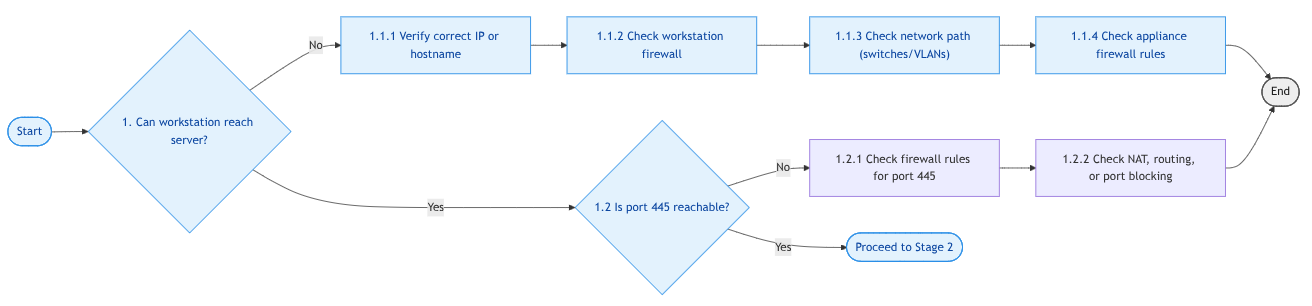
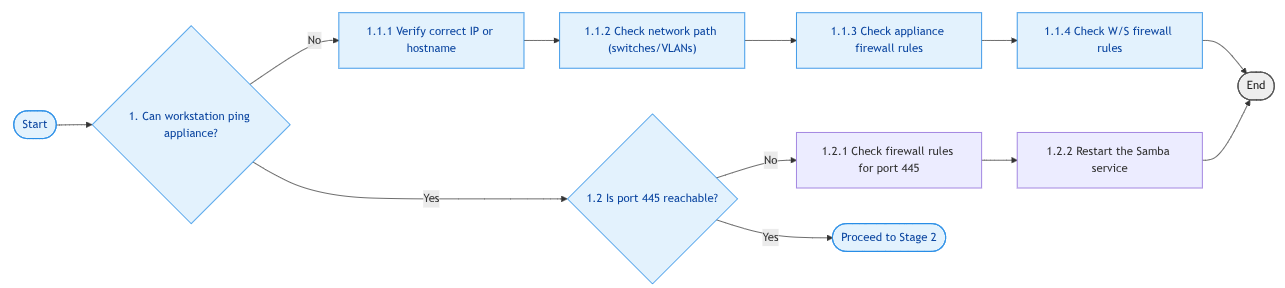
Git Title: replaced stage 2/3 with png images instead of mermaid diagrams

diff --git a/docs/appendices/appendix-g.md b/docs/appendices/appendix-g.md
@@ -13,64 +13,11 @@ It's broken down into the following three stages:
 
 ![screenshot](../appendices/img/minimap1.png)
 
-```mermaid
-
-flowchart LR
-
-    classDef stage1 fill:#e3f2fd,stroke:#1e88e5,color:#0d47a1;
-    classDef stage2 fill:#e8f5e9,stroke:#43a047,color:#1b5e20;
-    classDef stage3 fill:#fce4ec,stroke:#d81b60,color:#880e4f;
-
-    A([🟢 Start: SMB Issue Reported]) --> B([1. Port Reachability & Firewall])
-    B --> C([2. SMB Listing & Authentication])
-    C --> D([3. User Authentication & Permissions])
-    D --> E([🟦 End: SMB Functioning Correctly])
-
-    class B stage1
-    class C stage2
-    class D stage3
-```
-
 ----------------------------------------------------------------
 
 ## ⭐ Stage 1 — Port Reachability & Firewall Checks
 
-![screenshot](../appendices/img/stage1.md)
-
-```mermaid
-
-flowchart LR
-
-    %% Styles
-    classDef stage1 fill:#e3f2fd,stroke:#1e88e5,stroke-width:1px,color:#0d47a1;
-    classDef terminal fill:#eeeeee,stroke:#424242,color:#212121,stroke-width:1px;
-
-    %% Stage 1 Entry
-    A([🟢 0. Start: SMB Issue Reported]) --> B{1. Port 445 reachable?}
-    class A,B stage1
-
-    %% Stage 1
-    subgraph Stage1 [▼ Stage 1: Port Reachability & Firewall]
-        direction LR
-
-        %% No path → firewall troubleshooting
-        B -->|No| B1[1.1 Firewall or network path issue]
-        B1 --> B1a[1.1.1 Confirm correct IP]
-        B1 --> B1b[1.1.2 Verify VLANs / switches]
-        B1 --> B1c[1.1.3 Check appliance firewall]
-        B1 --> B1d[1.1.4 Check workstation firewall]
-    end
-
-    class B1,B1a,B1b,B1c,B1d stage1
-
-    %% End if unreachable
-    B1d --> Z([🔚 End])
-    class Z terminal
-
-    %% Yes path → Stage 2
-    B -->|Yes| NextStage2([➡ Proceed to Stage 2])
-    class NextStage2 stage1
-```
+![screenshot](../appendices/img/stage1.png)
 
 ----------------------------------------------------------------
 
@@ -107,40 +54,7 @@ flowchart LR
 
 ## ⭐ Stage 2 — SMB Share Listing & Authentication
 
-```mermaid
-flowchart LR
-
-    %% Styles
-    classDef stage2 fill:#e8f5e9,stroke:#43a047,stroke-width:1px,color:#1b5e20;
-    classDef terminal fill:#eeeeee,stroke:#424242,color:#212121,stroke-width:1px;
-
-    %% Stage 2 Entry
-    A([➡ From Stage 1]) --> C{2. Can workstation list SMB shares?}
-    class A,C stage2
-
-    %% Stage 2
-    subgraph Stage2 [▼ Stage 2: SMB Listing & Authentication]
-        direction LR
-
-        C -->|No| C1[2.1 Authentication or DNS issue]
-
-        C1 --> C1a[2.1.1 Check credentials]
-        C1 --> C1b[2.1.2 Is domain WORKGROUP?]
-        C1 --> C1c[2.1.3 Check DNS resolution]
-        C1 --> C1d[2.1.4 Check time sync]
-        C1 --> C1e[2.1.5 Check Samba logs]
-    end
-
-    class C1,C1a,C1b,C1c,C1d,C1e stage2
-
-    %% End if listing fails
-    C1e --> Z([🔚 End])
-    class Z terminal
-
-    %% Success path → Stage 3
-    C -->|Yes| NextStage3([➡ Proceed to Stage 3])
-    class NextStage3 stage2
-```
+![screenshot](../appendices/img/stage2.png)
 
 ----------------------------------------------------------------
 
@@ -207,49 +121,7 @@ flowchart LR
 
 ----------------------------------------------------------------
 
-```mermaid
-
-flowchart LR
-
-    %% Styles
-    classDef stage3 fill:#fce4ec,stroke:#d81b60,stroke-width:1px,color:#880e4f;
-    classDef terminal fill:#eeeeee,stroke:#424242,color:#212121,stroke-width:1px;
-
-    %% Stage 3 Entry
-    A([➡ From Stage 2]) --> D{3. Drive mapping fails?}
-    class A,D stage3
-
-    %% Stage 3
-    subgraph Stage3 [▼ Stage 3: User Authentication & Permissions]
-        direction LR
-
-        %% Tier 1 — Authentication
-        D -->|Yes| E{3.1 User authentication working?}
-
-        %% Only meaningful workstation-side checks remain
-        E -->|No| E1[3.1.1 Check for cached credentials on workstation]
-        E1 --> E2[3.1.2 Check Samba logs for NTLMv2 handshake]
-
-        %% Tier 2 — Permissions
-        E -->|Yes| F{3.2 Permissions correct?}
-
-        F -->|No| F1[3.2.1 Check filesystem permissions]
-        F1 --> F2["3.2.2 Validate share-level access rules\n(path exists, correct owner/group/mode)"]
-        F2 --> F3[3.2.3 Validate group membership]
-        F3 --> F4[3.2.4 Use smbstatus to inspect active sessions]
-
-        %% Success
-        F -->|Yes| G([🟦 3.3 SMB functioning correctly])
-    end
-
-    class E,E1,E2,F,F1,F2,F3,F4,G stage3
-
-    %% Endpoints
-    E2 --> Z([🔚 End])
-    F4 --> Z
-    G --> Z
-    class Z terminal
-```
+![screenshot](../appendices/img/stage3.png)
 
 ----------------------------------------------------------------
 

diff --git a/docs/appendices/img/stage3.md b/docs/appendices/img/stage3.md
@@ -1,0 +1,71 @@
+```mermaid
+
+flowchart LR
+
+    classDef stage3 fill:#fce4ec,stroke:#d81b60,stroke-width:1px,color:#880e4f;
+    classDef terminal fill:#eeeeee,stroke:#424242,color:#212121;
+
+    A([From Stage 2]) --> B{3. Drive mapping fails?}
+    class A,B stage3
+
+    %% Permissions branch
+    B -->|Yes| C{3.2 Permissions correct?}
+    class C stage3
+
+    C -->|No| D["3.2.1 Check filesystem permissions"]
+    D --> E["3.2.2 Validate share-level access rules\n(path exists, correct owner/group/mode)"]
+    E --> F["3.2.3 Validate group membership"]
+    F --> G["3.2.4 Use smbstatus to inspect active sessions"]
+    G --> Z([End])
+    class D,E,F,G stage3
+    class Z terminal
+
+    %% Success
+    C -->|Yes| H([3.3 SMB functioning correctly])
+    H --> Z
+    class H stage3
+```
+
+```mermaid
+
+flowchart LR
+
+    %% Styles
+    classDef stage3 fill:#fce4ec,stroke:#d81b60,stroke-width:1px,color:#880e4f;
+    classDef terminal fill:#eeeeee,stroke:#424242,color:#212121,stroke-width:1px;
+
+    %% Stage 3 Entry
+    A([➡ From Stage 2]) --> D{3. Drive mapping fails?}
+    class A,D stage3
+
+    %% Stage 3
+    subgraph Stage3 [▼ Stage 3: User Authentication & Permissions]
+        direction LR
+
+        %% Tier 1 — Authentication
+        D -->|Yes| E{3.1 User authentication working?}
+
+        %% Only meaningful workstation-side checks remain
+        E -->|No| E1[3.1.1 Check for cached credentials on workstation]
+        E1 --> E2[3.1.2 Check Samba logs for NTLMv2 handshake]
+
+        %% Tier 2 — Permissions
+        E -->|Yes| F{3.2 Permissions correct?}
+
+        F -->|No| F1[3.2.1 Check filesystem permissions]
+        F1 --> F2["3.2.2 Validate share-level access rules\n(path exists, correct owner/group/mode)"]
+        F2 --> F3[3.2.3 Validate group membership]
+        F3 --> F4[3.2.4 Use smbstatus to inspect active sessions]
+
+        %% Success
+        F -->|Yes| G([🟦 3.3 SMB functioning correctly])
+    end
+
+    class E,E1,E2,F,F1,F2,F3,F4,G stage3
+
+    %% Endpoints
+    E2 --> Z([🔚 End])
+    F4 --> Z
+    G --> Z
+    class Z terminal
+```

diff --git a/docs/appendices/img/stage1.md b/docs/appendices/img/stage1.md
@@ -1,0 +1,64 @@
+```mermaid
+flowchart LR
+
+    classDef stage1 fill:#e3f2fd,stroke:#1e88e5,stroke-width:1px,color:#0d47a1;
+    classDef terminal fill:#eeeeee,stroke:#424242,color:#212121;
+
+    A([Start]) --> B{1. Can workstation ping appliance?}
+    class A,B stage1
+
+    %% Cannot reach server
+    B -->|No| C["1.1.1 Verify correct IP or hostname"]
+    C --> D["1.1.2 Check network path (switches/VLANs)"]
+    D --> E["1.1.3 Check appliance firewall rules"]
+    E --> F["1.1.4 Check W/S firewall rules"]
+    F --> Z([End])
+    class C,D,E,F stage1
+    class Z terminal
+
+    %% Can reach server
+    B -->|Yes| G{1.2 Is port 445 reachable?}
+    class G stage1
+
+    G -->|No| H["1.2.1 Check firewall rules for port 445"]
+    H --> I["1.2.2 Restart the Samba service"]
+    I --> Z
+
+    G -->|Yes| J([Proceed to Stage 2])
+    class J stage1
+```
+
+```mermaid
+
+flowchart LR
+
+    %% Styles
+    classDef stage1 fill:#e3f2fd,stroke:#1e88e5,stroke-width:1px,color:#0d47a1;
+    classDef terminal fill:#eeeeee,stroke:#424242,color:#212121,stroke-width:1px;
+
+    %% Stage 1 Entry
+    A([🟢 0. Start: SMB Issue Reported]) --> B{1. Port 445 reachable?}
+    class A,B stage1
+
+    %% Stage 1
+    subgraph Stage1 [▼ Stage 1: Port Reachability & Firewall]
+        direction LR
+
+        %% No path → firewall troubleshooting
+        B -->|No| B1[1.1 Firewall or network path issue]
+        B1 --> B1a[1.1.1 Confirm correct IP]
+        B1 --> B1b[1.1.2 Verify VLANs / switches]
+        B1 --> B1c[1.1.3 Check appliance firewall]
+        B1 --> B1d[1.1.4 Check workstation firewall]
+    end
+
+    class B1,B1a,B1b,B1c,B1d stage1
+
+    %% End if unreachable
+    B1d --> Z([🔚 End])
+    class Z terminal
+
+    %% Yes path → Stage 2
+    B -->|Yes| NextStage2([➡ Proceed to Stage 2])
+    class NextStage2 stage1
+```

diff --git a/docs/appendices/img/stage2.md b/docs/appendices/img/stage2.md
@@ -1,0 +1,59 @@
+```mermaid
+
+flowchart LR
+
+    classDef stage2 fill:#e8f5e9,stroke:#43a047,stroke-width:1px,color:#1b5e20;
+    classDef terminal fill:#eeeeee,stroke:#424242,color:#212121;
+
+    A([From Stage 1]) --> B{2. Can workstation list SMB shares?}
+    class A,B stage2
+
+    %% Listing fails
+    B -->|No| C["2.1.1 Verify username/password"]
+    C --> D["2.1.2 Check cached credentials on workstation"]
+    D --> E["2.1.3 Check Samba logs for NTLMv2 handshake"]
+    E --> F["2.1.4 Check DNS resolution"]
+    F --> G["2.1.5 Check time sync"]
+    G --> Z([End])
+    class C,D,E,F,G stage2
+    class Z terminal
+
+    %% Listing succeeds
+    B -->|Yes| H([Proceed to Stage 3])
+    class H stage2
+```
+
+```mermaid
+flowchart LR
+
+    %% Styles
+    classDef stage2 fill:#e8f5e9,stroke:#43a047,stroke-width:1px,color:#1b5e20;
+    classDef terminal fill:#eeeeee,stroke:#424242,color:#212121,stroke-width:1px;
+
+    %% Stage 2 Entry
+    A([➡ From Stage 1]) --> C{2. Can workstation list SMB shares?}
+    class A,C stage2
+
+    %% Stage 2
+    subgraph Stage2 [▼ Stage 2: SMB Listing & Authentication]
+        direction LR
+
+        C -->|No| C1[2.1 Authentication or DNS issue]
+
+        C1 --> C1a[2.1.1 Check credentials]
+        C1 --> C1b[2.1.2 Is domain WORKGROUP?]
+        C1 --> C1c[2.1.3 Check DNS resolution]
+        C1 --> C1d[2.1.4 Check time sync]
+        C1 --> C1e[2.1.5 Check Samba logs]
+    end
+
+    class C1,C1a,C1b,C1c,C1d,C1e stage2
+
+    %% End if listing fails
+    C1e --> Z([🔚 End])
+    class Z terminal
+
+    %% Success path → Stage 3
+    C -->|Yes| NextStage3([➡ Proceed to Stage 3])
+    class NextStage3 stage2
+```
